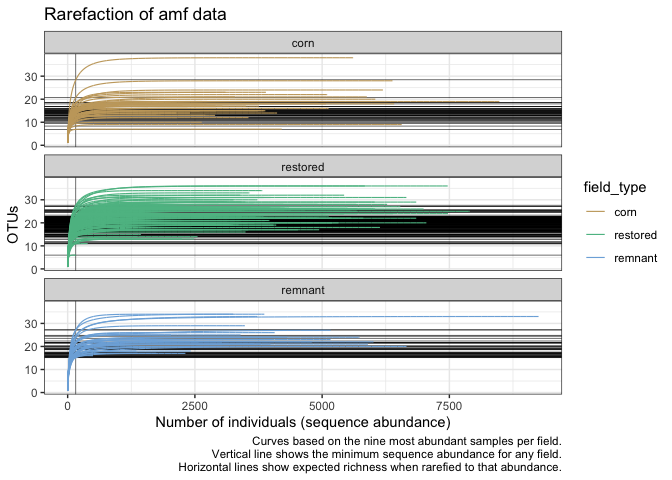
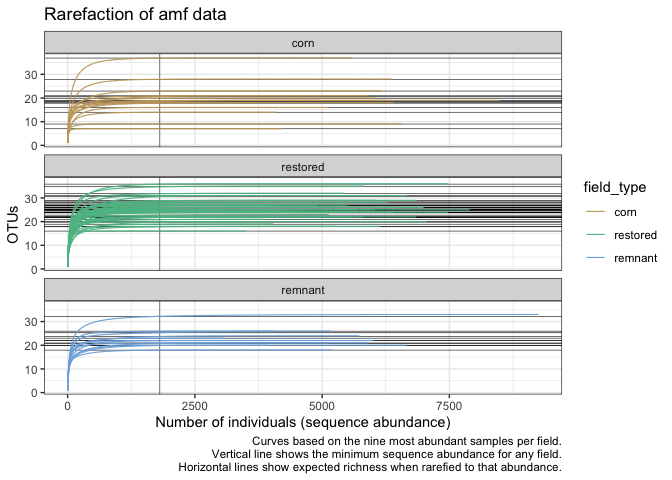
WIP, microbial_diagnostics.R

diff --git a/microbial_diagnostics.md b/microbial_diagnostics.md
@@ -427,7 +427,7 @@ its_rc %>%
 
 Samples sorted by sequence abundance
 
-Six fields would be removed if we cut off the sequence depth at 5000.
+Six samples would be removed if we cut off the sequence depth at 5000.
 
 Sequence abundance jumps from 4948 to 5221, which is a big jump compared
 with the rest of the table. This makes 5000 look good as a cutoff. No
@@ -532,7 +532,7 @@ ggplot(amf_rc, aes(x = seq_abund, y = otus, group = field_sample)) +
 
 <img src="microbial_diagnostics_files/figure-gfm/amf_rarefaction_curve_fig-1.png" style="display: block; margin: auto;" />
 
-Minimum sequencing depth reached is 160. Rarefying the data to this
+Minimum sequencing depth reached is 1811. Rarefying the data to this
 depth would remove a great number of OTUs and leave nearly all samples
 poorly characterized in richness and composition. It looks like
 somewhere around 1250 sequences would be more appropriate at bare
@@ -549,219 +549,69 @@ amf_rc %>%
 
 | field_key | sample_key | field_sample | seq_abund | otus | field_name | region | field_type | yr_since |
 |:----------|:-----------|:-------------|----------:|-----:|:-----------|:-------|:-----------|---------:|
-| 1         | 6          | 1_6          |       163 |    6 | BBRP1      | BM     | restored   |       16 |
-| 21        | 8          | 21_8         |       395 |   11 | MBRP1      | BM     | restored   |       18 |
-| 20        | 9          | 20_9         |       498 |   16 | MBREM1     | BM     | remnant    |       NA |
-| 1         | 9          | 1_9          |       623 |   19 | BBRP1      | BM     | restored   |       16 |
-| 12        | 4          | 12_4         |       713 |   19 | FLRSP1     | FL     | restored   |       10 |
-| 21        | 1          | 21_1         |      1175 |   13 | MBRP1      | BM     | restored   |       18 |
-| 20        | 6          | 20_6         |      1348 |   18 | MBREM1     | BM     | remnant    |       NA |
-| 21        | 9          | 21_9         |      1364 |   14 | MBRP1      | BM     | restored   |       18 |
-| 20        | 3          | 20_3         |      1372 |   17 | MBREM1     | BM     | remnant    |       NA |
-| 19        | 7          | 19_7         |      1432 |   13 | LPRP2      | LP     | restored   |        4 |
-| 9         | 9          | 9_9          |      1439 |   15 | FLRP1      | FL     | restored   |       40 |
-| 21        | 3          | 21_3         |      1458 |   22 | MBRP1      | BM     | restored   |       18 |
-| 10        | 2          | 10_2         |      1511 |   25 | FLRP4      | FL     | restored   |       36 |
-| 14        | 6          | 14_6         |      1546 |   23 | FLRSP3     | FL     | restored   |       10 |
-| 7         | 10         | 7_10         |      1579 |   16 | FLC2       | FL     | corn       |        0 |
-| 20        | 7          | 20_7         |      1740 |   17 | MBREM1     | BM     | remnant    |       NA |
-| 24        | 9          | 24_9         |      1741 |   13 | PHC1       | BM     | corn       |        0 |
-| 10        | 6          | 10_6         |      1807 |   17 | FLRP4      | FL     | restored   |       36 |
-| 7         | 9          | 7_9          |      1827 |   13 | FLC2       | FL     | corn       |        0 |
-| 1         | 1          | 1_1          |      1828 |   27 | BBRP1      | BM     | restored   |       16 |
-| 17        | 7          | 17_7         |      2030 |   25 | LPREM1     | LP     | remnant    |       NA |
-| 9         | 8          | 9_8          |      2112 |   24 | FLRP1      | FL     | restored   |       40 |
-| 11        | 10         | 11_10        |      2127 |   25 | FLRP5      | FL     | restored   |       35 |
-| 3         | 10         | 3_10         |      2131 |   14 | FGC1       | FG     | corn       |        0 |
-| 7         | 8          | 7_8          |      2156 |   12 | FLC2       | FL     | corn       |        0 |
-| 20        | 5          | 20_5         |      2199 |   21 | MBREM1     | BM     | remnant    |       NA |
-| 12        | 10         | 12_10        |      2238 |   21 | FLRSP1     | FL     | restored   |       10 |
-| 19        | 6          | 19_6         |      2240 |   13 | LPRP2      | LP     | restored   |        4 |
-| 6         | 10         | 6_10         |      2255 |   17 | FLC1       | FL     | corn       |        0 |
-| 21        | 10         | 21_10        |      2309 |   25 | MBRP1      | BM     | restored   |       18 |
-| 20        | 8          | 20_8         |      2313 |   17 | MBREM1     | BM     | remnant    |       NA |
-| 1         | 7          | 1_7          |      2317 |   27 | BBRP1      | BM     | restored   |       16 |
-| 8         | 10         | 8_10         |      2342 |   26 | FLREM1     | FL     | remnant    |       NA |
-| 9         | 7          | 9_7          |      2346 |   23 | FLRP1      | FL     | restored   |       40 |
-| 7         | 4          | 7_4          |      2355 |   16 | FLC2       | FL     | corn       |        0 |
-| 6         | 3          | 6_3          |      2404 |   14 | FLC1       | FL     | corn       |        0 |
-| 17        | 3          | 17_3         |      2421 |   18 | LPREM1     | LP     | remnant    |       NA |
-| 14        | 4          | 14_4         |      2435 |   18 | FLRSP3     | FL     | restored   |       10 |
-| 15        | 4          | 15_4         |      2485 |   13 | KORP1      | BM     | restored   |       28 |
-| 10        | 10         | 10_10        |      2552 |   14 | FLRP4      | FL     | restored   |       36 |
-| 4         | 8          | 4_8          |      2572 |   22 | FGREM1     | FG     | remnant    |       NA |
-| 15        | 9          | 15_9         |      2575 |   20 | KORP1      | BM     | restored   |       28 |
-| 24        | 1          | 24_1         |      2590 |   15 | PHC1       | BM     | corn       |        0 |
-| 16        | 3          | 16_3         |      2635 |   10 | LPC1       | LP     | corn       |        0 |
-| 21        | 2          | 21_2         |      2635 |   25 | MBRP1      | BM     | restored   |       18 |
-| 16        | 10         | 16_10        |      2639 |   19 | LPC1       | LP     | corn       |        0 |
-| 14        | 9          | 14_9         |      2654 |   17 | FLRSP3     | FL     | restored   |       10 |
-| 3         | 3          | 3_3          |      2704 |   13 | FGC1       | FG     | corn       |        0 |
-| 24        | 3          | 24_3         |      2726 |   18 | PHC1       | BM     | corn       |        0 |
-| 16        | 4          | 16_4         |      2741 |   19 | LPC1       | LP     | corn       |        0 |
-| 1         | 10         | 1_10         |      2766 |   24 | BBRP1      | BM     | restored   |       16 |
-| 12        | 3          | 12_3         |      2803 |   22 | FLRSP1     | FL     | restored   |       10 |
-| 14        | 2          | 14_2         |      2834 |   24 | FLRSP3     | FL     | restored   |       10 |
-| 10        | 9          | 10_9         |      2843 |   23 | FLRP4      | FL     | restored   |       36 |
-| 7         | 3          | 7_3          |      2897 |   13 | FLC2       | FL     | corn       |        0 |
-| 16        | 8          | 16_8         |      2901 |   17 | LPC1       | LP     | corn       |        0 |
-| 13        | 10         | 13_10        |      2904 |   26 | FLRSP2     | FL     | restored   |       10 |
-| 5         | 10         | 5_10         |      2908 |   20 | FGRP1      | FG     | restored   |       15 |
-| 3         | 9          | 3_9          |      2916 |   16 | FGC1       | FG     | corn       |        0 |
-| 16        | 1          | 16_1         |      2918 |   15 | LPC1       | LP     | corn       |        0 |
-| 11        | 9          | 11_9         |      2934 |   23 | FLRP5      | FL     | restored   |       35 |
-| 15        | 2          | 15_2         |      2964 |   28 | KORP1      | BM     | restored   |       28 |
-| 12        | 1          | 12_1         |      2976 |   25 | FLRSP1     | FL     | restored   |       10 |
-| 22        | 3          | 22_3         |      2984 |   24 | MHRP1      | BM     | restored   |        7 |
-| 17        | 2          | 17_2         |      3001 |   20 | LPREM1     | LP     | remnant    |       NA |
-| 22        | 8          | 22_8         |      3001 |   22 | MHRP1      | BM     | restored   |        7 |
-| 13        | 2          | 13_2         |      3015 |   19 | FLRSP2     | FL     | restored   |       10 |
-| 17        | 9          | 17_9         |      3031 |   22 | LPREM1     | LP     | remnant    |       NA |
-| 24        | 10         | 24_10        |      3043 |   17 | PHC1       | BM     | corn       |        0 |
-| 17        | 10         | 17_10        |      3056 |   20 | LPREM1     | LP     | remnant    |       NA |
-| 1         | 8          | 1_8          |      3069 |   29 | BBRP1      | BM     | restored   |       16 |
 | 20        | 4          | 20_4         |      3071 |   23 | MBREM1     | BM     | remnant    |       NA |
-| 3         | 8          | 3_8          |      3101 |   23 | FGC1       | FG     | corn       |        0 |
-| 9         | 3          | 9_3          |      3121 |   22 | FLRP1      | FL     | restored   |       40 |
-| 11        | 3          | 11_3         |      3132 |   29 | FLRP5      | FL     | restored   |       35 |
-| 15        | 10         | 15_10        |      3134 |   21 | KORP1      | BM     | restored   |       28 |
-| 12        | 9          | 12_9         |      3190 |   19 | FLRSP1     | FL     | restored   |       10 |
-| 11        | 1          | 11_1         |      3206 |   19 | FLRP5      | FL     | restored   |       35 |
-| 19        | 4          | 19_4         |      3248 |   19 | LPRP2      | LP     | restored   |        4 |
-| 8         | 8          | 8_8          |      3252 |   34 | FLREM1     | FL     | remnant    |       NA |
-| 25        | 9          | 25_9         |      3258 |   30 | PHRP1      | BM     | restored   |       11 |
-| 13        | 3          | 13_3         |      3262 |   24 | FLRSP2     | FL     | restored   |       10 |
-| 24        | 8          | 24_8         |      3286 |   21 | PHC1       | BM     | corn       |        0 |
-| 19        | 10         | 19_10        |      3287 |   21 | LPRP2      | LP     | restored   |        4 |
 | 21        | 5          | 21_5         |      3312 |   24 | MBRP1      | BM     | restored   |       18 |
-| 22        | 9          | 22_9         |      3322 |   27 | MHRP1      | BM     | restored   |        7 |
-| 13        | 9          | 13_9         |      3359 |   19 | FLRSP2     | FL     | restored   |       10 |
-| 25        | 8          | 25_8         |      3378 |   21 | PHRP1      | BM     | restored   |       11 |
-| 9         | 2          | 9_2          |      3391 |   32 | FLRP1      | FL     | restored   |       40 |
-| 4         | 9          | 4_9          |      3396 |   25 | FGREM1     | FG     | remnant    |       NA |
 | 21        | 7          | 21_7         |      3402 |   25 | MBRP1      | BM     | restored   |       18 |
-| 14        | 3          | 14_3         |      3406 |   21 | FLRSP3     | FL     | restored   |       10 |
-| 11        | 5          | 11_5         |      3412 |   29 | FLRP5      | FL     | restored   |       35 |
-| 10        | 4          | 10_4         |      3413 |   17 | FLRP4      | FL     | restored   |       36 |
-| 5         | 9          | 5_9          |      3424 |   23 | FGRP1      | FG     | restored   |       15 |
-| 7         | 2          | 7_2          |      3435 |   19 | FLC2       | FL     | corn       |        0 |
-| 10        | 1          | 10_1         |      3452 |   26 | FLRP4      | FL     | restored   |       36 |
-| 23        | 9          | 23_9         |      3464 |   25 | MHRP2      | BM     | restored   |        2 |
-| 1         | 5          | 1_5          |      3473 |   24 | BBRP1      | BM     | restored   |       16 |
-| 22        | 7          | 22_7         |      3481 |   25 | MHRP1      | BM     | restored   |        7 |
-| 8         | 3          | 8_3          |      3481 |   29 | FLREM1     | FL     | remnant    |       NA |
-| 23        | 10         | 23_10        |      3491 |   29 | MHRP2      | BM     | restored   |        2 |
+| 1         | 5          | 1_5          |      3434 |   22 | BBRP1      | BM     | restored   |       16 |
 | 21        | 4          | 21_4         |      3495 |   16 | MBRP1      | BM     | restored   |       18 |
-| 24        | 4          | 24_4         |      3500 |   17 | PHC1       | BM     | corn       |        0 |
-| 2         | 4          | 2_4          |      3527 |   20 | ERRP1      | BM     | restored   |        3 |
-| 25        | 2          | 25_2         |      3537 |   24 | PHRP1      | BM     | restored   |       11 |
-| 19        | 3          | 19_3         |      3552 |   17 | LPRP2      | LP     | restored   |        4 |
-| 3         | 2          | 3_2          |      3553 |   12 | FGC1       | FG     | corn       |        0 |
-| 11        | 4          | 11_4         |      3571 |   33 | FLRP5      | FL     | restored   |       35 |
-| 14        | 1          | 14_1         |      3576 |   21 | FLRSP3     | FL     | restored   |       10 |
 | 10        | 3          | 10_3         |      3608 |   27 | FLRP4      | FL     | restored   |       36 |
 | 10        | 7          | 10_7         |      3653 |   28 | FLRP4      | FL     | restored   |       36 |
-| 17        | 1          | 17_1         |      3662 |   21 | LPREM1     | LP     | remnant    |       NA |
-| 23        | 3          | 23_3         |      3668 |   20 | MHRP2      | BM     | restored   |        2 |
-| 12        | 7          | 12_7         |      3695 |   26 | FLRSP1     | FL     | restored   |       10 |
-| 18        | 10         | 18_10        |      3700 |   23 | LPRP1      | LP     | restored   |        4 |
-| 15        | 3          | 15_3         |      3723 |   22 | KORP1      | BM     | restored   |       28 |
-| 8         | 4          | 8_4          |      3724 |   33 | FLREM1     | FL     | remnant    |       NA |
-| 5         | 4          | 5_4          |      3727 |   30 | FGRP1      | FG     | restored   |       15 |
 | 24        | 2          | 24_2         |      3731 |   18 | PHC1       | BM     | corn       |        0 |
-| 6         | 9          | 6_9          |      3737 |   15 | FLC1       | FL     | corn       |        0 |
-| 5         | 3          | 5_3          |      3739 |   24 | FGRP1      | FG     | restored   |       15 |
-| 16        | 2          | 16_2         |      3759 |   17 | LPC1       | LP     | corn       |        0 |
-| 22        | 1          | 22_1         |      3781 |   26 | MHRP1      | BM     | restored   |        7 |
-| 13        | 8          | 13_8         |      3784 |   22 | FLRSP2     | FL     | restored   |       10 |
-| 4         | 4          | 4_4          |      3789 |   21 | FGREM1     | FG     | remnant    |       NA |
-| 23        | 7          | 23_7         |      3824 |   34 | MHRP2      | BM     | restored   |        2 |
-| 6         | 2          | 6_2          |      3847 |   15 | FLC1       | FL     | corn       |        0 |
-| 9         | 10         | 9_10         |      3848 |   23 | FLRP1      | FL     | restored   |       40 |
 | 11        | 8          | 11_8         |      3849 |   31 | FLRP5      | FL     | restored   |       35 |
-| 23        | 2          | 23_2         |      3858 |   26 | MHRP2      | BM     | restored   |        2 |
-| 8         | 2          | 8_2          |      3864 |   34 | FLREM1     | FL     | remnant    |       NA |
-| 4         | 2          | 4_2          |      3869 |   23 | FGREM1     | FG     | remnant    |       NA |
 | 1         | 4          | 1_4          |      3876 |   21 | BBRP1      | BM     | restored   |       16 |
-| 6         | 4          | 6_4          |      3884 |   15 | FLC1       | FL     | corn       |        0 |
 | 12        | 5          | 12_5         |      3894 |   22 | FLRSP1     | FL     | restored   |       10 |
-| 3         | 4          | 3_4          |      3895 |   23 | FGC1       | FG     | corn       |        0 |
-| 18        | 3          | 18_3         |      3941 |   22 | LPRP1      | LP     | restored   |        4 |
-| 13        | 7          | 13_7         |      3964 |   21 | FLRSP2     | FL     | restored   |       10 |
+| 20        | 1          | 20_1         |      3939 |   20 | MBREM1     | BM     | remnant    |       NA |
 | 11        | 6          | 11_6         |      3967 |   27 | FLRP5      | FL     | restored   |       35 |
-| 2         | 2          | 2_2          |      3972 |   20 | ERRP1      | BM     | restored   |        3 |
-| 20        | 1          | 20_1         |      3984 |   21 | MBREM1     | BM     | remnant    |       NA |
-| 23        | 1          | 23_1         |      3986 |   31 | MHRP2      | BM     | restored   |        2 |
-| 19        | 1          | 19_1         |      3993 |   27 | LPRP2      | LP     | restored   |        4 |
-| 8         | 9          | 8_9          |      4004 |   23 | FLREM1     | FL     | remnant    |       NA |
 | 14        | 5          | 14_5         |      4042 |   19 | FLRSP3     | FL     | restored   |       10 |
 | 20        | 2          | 20_2         |      4069 |   26 | MBREM1     | BM     | remnant    |       NA |
 | 12        | 8          | 12_8         |      4096 |   25 | FLRSP1     | FL     | restored   |       10 |
-| 2         | 9          | 2_9          |      4098 |   19 | ERRP1      | BM     | restored   |        3 |
 | 3         | 1          | 3_1          |      4115 |   14 | FGC1       | FG     | corn       |        0 |
-| 4         | 1          | 4_1          |      4151 |   24 | FGREM1     | FG     | remnant    |       NA |
 | 13        | 4          | 13_4         |      4176 |   27 | FLRSP2     | FL     | restored   |       10 |
 | 7         | 5          | 7_5          |      4207 |    7 | FLC2       | FL     | corn       |        0 |
-| 25        | 3          | 25_3         |      4235 |   28 | PHRP1      | BM     | restored   |       11 |
 | 1         | 2          | 1_2          |      4257 |   25 | BBRP1      | BM     | restored   |       16 |
-| 2         | 3          | 2_3          |      4262 |   27 | ERRP1      | BM     | restored   |        3 |
-| 4         | 3          | 4_3          |      4324 |   24 | FGREM1     | FG     | remnant    |       NA |
-| 25        | 1          | 25_1         |      4350 |   27 | PHRP1      | BM     | restored   |       11 |
-| 18        | 4          | 18_4         |      4386 |   25 | LPRP1      | LP     | restored   |        4 |
-| 19        | 8          | 19_8         |      4453 |   26 | LPRP2      | LP     | restored   |        4 |
-| 18        | 2          | 18_2         |      4525 |   17 | LPRP1      | LP     | restored   |        4 |
+| 19        | 8          | 19_8         |      4449 |   25 | LPRP2      | LP     | restored   |        4 |
 | 19        | 2          | 19_2         |      4663 |   25 | LPRP2      | LP     | restored   |        4 |
-| 25        | 10         | 25_10        |      4665 |   24 | PHRP1      | BM     | restored   |       11 |
-| 18        | 8          | 18_8         |      4678 |   22 | LPRP1      | LP     | restored   |        4 |
 | 17        | 4          | 17_4         |      4796 |   22 | LPREM1     | LP     | remnant    |       NA |
-| 15        | 5          | 15_5         |      4890 |   22 | KORP1      | BM     | restored   |       28 |
-| 23        | 4          | 23_4         |      4909 |   28 | MHRP2      | BM     | restored   |        2 |
+| 23        | 4          | 23_4         |      4900 |   27 | MHRP2      | BM     | restored   |        2 |
 | 3         | 6          | 3_6          |      4918 |   19 | FGC1       | FG     | corn       |        0 |
-| 18        | 7          | 18_7         |      4941 |   17 | LPRP1      | LP     | restored   |        4 |
 | 15        | 1          | 15_1         |      4948 |   22 | KORP1      | BM     | restored   |       28 |
 | 18        | 1          | 18_1         |      4951 |   24 | LPRP1      | LP     | restored   |        4 |
 | 9         | 1          | 9_1          |      4969 |   26 | FLRP1      | FL     | restored   |       40 |
-| 5         | 2          | 5_2          |      5072 |   24 | FGRP1      | FG     | restored   |       15 |
-| 6         | 5          | 6_5          |      5077 |   18 | FLC1       | FL     | corn       |        0 |
-| 16        | 7          | 16_7         |      5099 |   22 | LPC1       | LP     | corn       |        0 |
+| 16        | 7          | 16_7         |      4978 |   21 | LPC1       | LP     | corn       |        0 |
+| 4         | 7          | 4_7          |      5113 |   21 | FGREM1     | FG     | remnant    |       NA |
 | 7         | 7          | 7_7          |      5127 |   16 | FLC2       | FL     | corn       |        0 |
 | 25        | 4          | 25_4         |      5131 |   23 | PHRP1      | BM     | restored   |       11 |
-| 4         | 7          | 4_7          |      5165 |   23 | FGREM1     | FG     | remnant    |       NA |
-| 4         | 5          | 4_5          |      5167 |   27 | FGREM1     | FG     | remnant    |       NA |
+| 4         | 5          | 4_5          |      5164 |   26 | FGREM1     | FG     | remnant    |       NA |
+| 17        | 5          | 17_5         |      5194 |   18 | LPREM1     | LP     | remnant    |       NA |
 | 13        | 1          | 13_1         |      5198 |   20 | FLRSP2     | FL     | restored   |       10 |
-| 17        | 5          | 17_5         |      5200 |   20 | LPREM1     | LP     | remnant    |       NA |
-| 2         | 8          | 2_8          |      5201 |   22 | ERRP1      | BM     | restored   |        3 |
 | 13        | 5          | 13_5         |      5225 |   26 | FLRSP2     | FL     | restored   |       10 |
-| 19        | 5          | 19_5         |      5321 |   20 | LPRP2      | LP     | restored   |        4 |
+| 19        | 5          | 19_5         |      5257 |   18 | LPRP2      | LP     | restored   |        4 |
 | 18        | 5          | 18_5         |      5424 |   24 | LPRP1      | LP     | restored   |        4 |
 | 12        | 6          | 12_6         |      5427 |   24 | FLRSP1     | FL     | restored   |       10 |
 | 10        | 5          | 10_5         |      5432 |   32 | FLRP4      | FL     | restored   |       36 |
 | 14        | 8          | 14_8         |      5498 |   27 | FLRSP3     | FL     | restored   |       10 |
-| 2         | 6          | 2_6          |      5554 |   25 | ERRP1      | BM     | restored   |        3 |
 | 9         | 6          | 9_6          |      5566 |   22 | FLRP1      | FL     | restored   |       40 |
-| 6         | 8          | 6_8          |      5609 |   38 | FLC1       | FL     | corn       |        0 |
-| 5         | 5          | 5_5          |      5669 |   28 | FGRP1      | FG     | restored   |       15 |
+| 6         | 8          | 6_8          |      5588 |   37 | FLC1       | FL     | corn       |        0 |
 | 2         | 1          | 2_1          |      5679 |   25 | ERRP1      | BM     | restored   |        3 |
-| 22        | 2          | 22_2         |      5685 |   26 | MHRP1      | BM     | restored   |        7 |
 | 14        | 7          | 14_7         |      5689 |   24 | FLRSP3     | FL     | restored   |       10 |
 | 8         | 6          | 8_6          |      5734 |   24 | FLREM1     | FL     | remnant    |       NA |
 | 18        | 6          | 18_6         |      5809 |   22 | LPRP1      | LP     | restored   |        4 |
-| 5         | 8          | 5_8          |      5839 |   36 | FGRP1      | FG     | restored   |       15 |
+| 5         | 8          | 5_8          |      5822 |   35 | FGRP1      | FG     | restored   |       15 |
 | 16        | 5          | 16_5         |      5878 |   21 | LPC1       | LP     | corn       |        0 |
 | 17        | 6          | 17_6         |      5900 |   21 | LPREM1     | LP     | remnant    |       NA |
 | 23        | 5          | 23_5         |      6004 |   26 | MHRP2      | BM     | restored   |        2 |
 | 8         | 5          | 8_5          |      6010 |   22 | FLREM1     | FL     | remnant    |       NA |
 | 11        | 7          | 11_7         |      6032 |   29 | FLRP5      | FL     | restored   |       35 |
-| 25        | 5          | 25_5         |      6042 |   26 | PHRP1      | BM     | restored   |       11 |
+| 25        | 5          | 25_5         |      6037 |   25 | PHRP1      | BM     | restored   |       11 |
 | 24        | 6          | 24_6         |      6045 |   20 | PHC1       | BM     | corn       |        0 |
 | 2         | 5          | 2_5          |      6136 |   18 | ERRP1      | BM     | restored   |        3 |
-| 3         | 7          | 3_7          |      6194 |   24 | FGC1       | FG     | corn       |        0 |
+| 3         | 7          | 3_7          |      6162 |   23 | FGC1       | FG     | corn       |        0 |
 | 22        | 6          | 22_6         |      6277 |   28 | MHRP1      | BM     | restored   |        7 |
 | 6         | 7          | 6_7          |      6281 |   19 | FLC1       | FL     | corn       |        0 |
 | 6         | 6          | 6_6          |      6382 |   28 | FLC1       | FL     | corn       |        0 |
 | 22        | 5          | 22_5         |      6390 |   24 | MHRP1      | BM     | restored   |        7 |
 | 24        | 5          | 24_5         |      6416 |   18 | PHC1       | BM     | corn       |        0 |
-| 25        | 6          | 25_6         |      6536 |   27 | PHRP1      | BM     | restored   |       11 |
+| 25        | 6          | 25_6         |      6529 |   26 | PHRP1      | BM     | restored   |       11 |
 | 7         | 6          | 7_6          |      6563 |    9 | FLC2       | FL     | corn       |        0 |
 | 5         | 6          | 5_6          |      6655 |   31 | FGRP1      | FG     | restored   |       15 |
 | 4         | 6          | 4_6          |      6658 |   20 | FGREM1     | FG     | remnant    |       NA |
@@ -818,18 +668,18 @@ summary(lm(otus ~ seqs, data = amf_seqot))
     ## 
     ## Residuals:
     ##     Min      1Q  Median      3Q     Max 
-    ## -17.066  -3.499   1.117   6.036  11.744 
+    ## -17.161  -3.449   2.047   5.267   9.167 
     ## 
     ## Coefficients:
     ##              Estimate Std. Error t value Pr(>|t|)    
-    ## (Intercept) 4.731e+01  8.134e+00   5.816 6.31e-06 ***
-    ## seqs        9.132e-05  2.299e-04   0.397    0.695    
+    ## (Intercept) 3.462e+01  7.812e+00   4.432 0.000192 ***
+    ## seqs        1.600e-04  4.764e-04   0.336 0.740041    
     ## ---
     ## Signif. codes:  0 '***' 0.001 '**' 0.01 '*' 0.05 '.' 0.1 ' ' 1
     ## 
-    ## Residual standard error: 8 on 23 degrees of freedom
-    ## Multiple R-squared:  0.006811,   Adjusted R-squared:  -0.03637 
-    ## F-statistic: 0.1577 on 1 and 23 DF,  p-value: 0.6949
+    ## Residual standard error: 6.88 on 23 degrees of freedom
+    ## Multiple R-squared:  0.00488,    Adjusted R-squared:  -0.03839 
+    ## F-statistic: 0.1128 on 1 and 23 DF,  p-value: 0.74
 
 The custom function `spe_accum()` is applied here.
 
